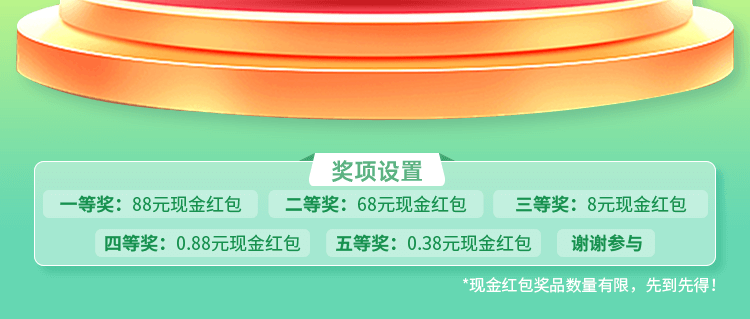
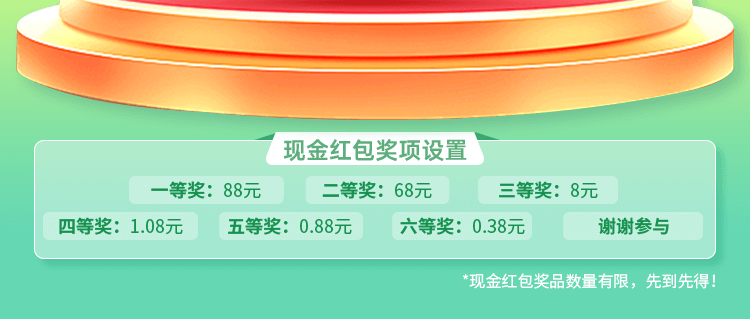
1

Changed region(s): [[0.0307, 0.395, 0.9813, 0.931]]

diff --git a/src/views/LuckyDraw/rotate.vue b/src/views/LuckyDraw/rotate.vue
@@ -32,6 +32,7 @@ const cards = ref([
   { name: 'p_88', url: new URL("./image/c_88.png", import.meta.url).href, winUrk: ref(new URL("./image/p_88.png", import.meta.url).href) },
   { name: 'p_68', url: new URL("./image/c_68.png", import.meta.url).href, winUrk: ref(new URL("./image/p_68.png", import.meta.url).href) },
   { name: 'p_8', url: new URL("./image/c_8.png", import.meta.url).href, winUrk: ref(new URL("./image/p_8.png", import.meta.url).href) },
+  { name: 'p_1d08', url: new URL("./image/c_1d08.png", import.meta.url).href, winUrk: ref(new URL("./image/p_1d08.png", import.meta.url).href) },
   { name: 'p_d88', url: new URL("./image/c_d88.png", import.meta.url).href, winUrk: ref(new URL("./image/p_d88.png", import.meta.url).href) },
   { name: 'p_d38', url: new URL("./image/c_d38.png", import.meta.url).href, winUrk: ref(new URL("./image/p_d38.png", import.meta.url).href) },
   { name: 'p_thank', url: new URL("./image/c_thank.png", import.meta.url).href, winUrk: ref(new URL("./image/p_thank.png", import.meta.url).href) },
@@ -43,14 +44,14 @@ const sortCards = (wn = '') => {
   winImgUrl.value = cards.value[i].winUrk;
   const _f = cards.value.filter((c, c_i) => c_i !== i);
   const _s = cards.value.splice(i, 1);
-  cards.value = [..._s, ..._f];
+  cards.value = [..._f, ..._s];
 };
 
 /**
  * @param wn 得奖的卡片 ['p_88', 'p_68', 'p_8', 'p_d88', 'p_d38']
  */
 const move = (wn = '') => {
-  const exam = ['p_88', 'p_68', 'p_8', 'p_d88', 'p_d38'];
+  const exam = ['p_88', 'p_68', 'p_8', 'p_1d08', 'p_d88', 'p_d38'];
   if(exam.indexOf(wn) < 0) return console.error('检查传入的得奖信息是否存在');
   sortCards(wn);
   let T1 = setTimeout(() => {
@@ -77,6 +78,7 @@ const init = () => {
     { name: 'p_88', url: new URL("./image/c_88.png", import.meta.url).href, winUrk: ref(new URL("./image/p_88.png", import.meta.url).href) },
     { name: 'p_68', url: new URL("./image/c_68.png", import.meta.url).href, winUrk: ref(new URL("./image/p_68.png", import.meta.url).href) },
     { name: 'p_8', url: new URL("./image/c_8.png", import.meta.url).href, winUrk: ref(new URL("./image/p_8.png", import.meta.url).href) },
+    { name: 'p_1d08', url: new URL("./image/c_1d08.png", import.meta.url).href, winUrk: ref(new URL("./image/p_1d08.png", import.meta.url).href) },
     { name: 'p_d88', url: new URL("./image/c_d88.png", import.meta.url).href, winUrk: ref(new URL("./image/p_d88.png", import.meta.url).href) },
     { name: 'p_d38', url: new URL("./image/c_d38.png", import.meta.url).href, winUrk: ref(new URL("./image/p_d38.png", import.meta.url).href) },
     { name: 'p_thank', url: new URL("./image/c_thank.png", import.meta.url).href, winUrk: ref(new URL("./image/p_thank.png", import.meta.url).href) },
@@ -113,7 +115,7 @@ $sceneH: calc($sceneW / 3);
 }
 
 .scene-3d.animation .box {
-  transform: rotateY(calc(-360deg * 6));
+  transform: rotateY(calc(-360deg * 7));
 }
 
 .box .card {

diff --git a/src/views/LuckyDraw/index.vue b/src/views/LuckyDraw/index.vue
@@ -115,7 +115,7 @@ const preDraw = () => {
     T = null;
     closeToast();
     // 以下为可执行的 弹窗 或者 动效
-    const list = ['p_88', 'p_68', 'p_8', 'p_d88', 'p_d38', 'p_thank', 'p_exchange', 'p_finish', 'p_notBegin'];
+    const list = ['p_88', 'p_68', 'p_8', 'p_1d08', 'p_d88', 'p_d38', 'p_thank', 'p_exchange', 'p_finish', 'p_notBegin'];
     const r = Math.floor(Math.random() * list.length);
     console.log('随机抽取弹窗或动效：', list[r]);
     handleOverlay('dynamic', true, handleRotate(list[r]));
